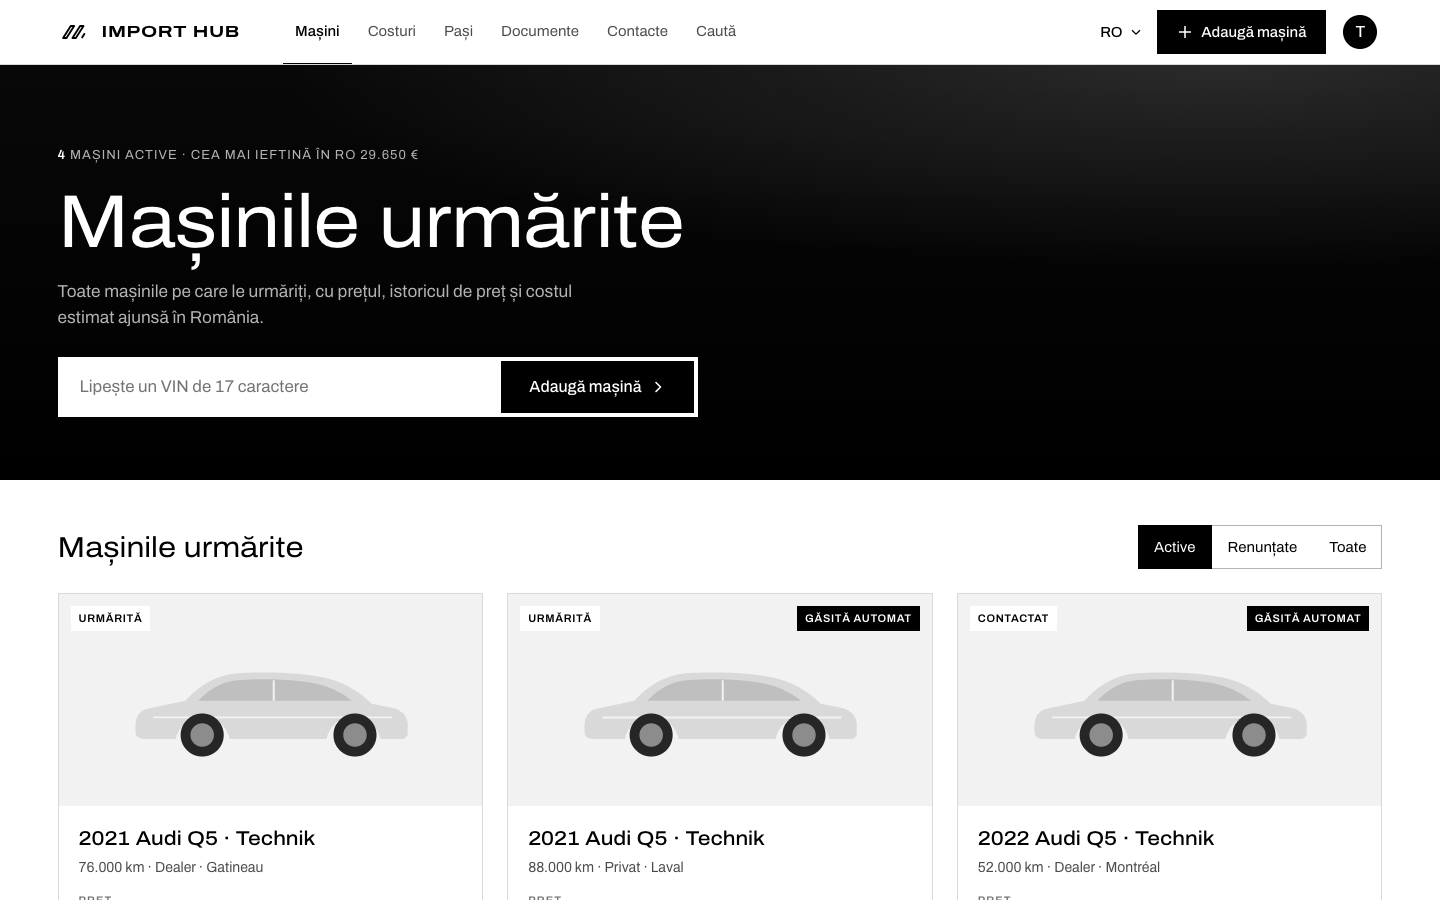
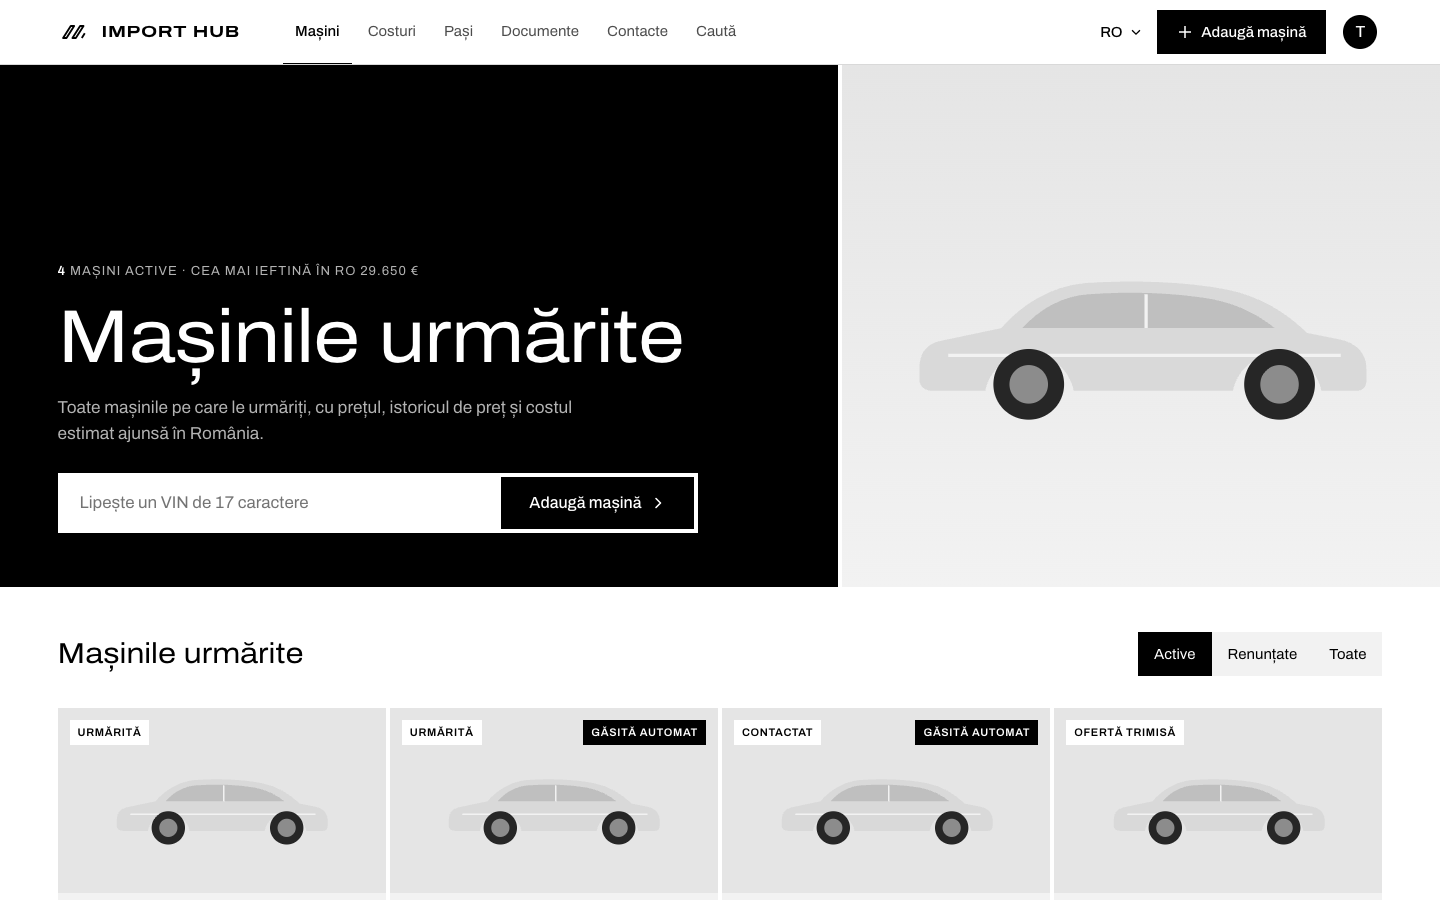
Apply Audi's published layout principles with our own components
Hero becomes an asymmetric split (black text block + full-bleed car tile);
cars, panels and side column become edge-to-edge tiles with narrow gaps;
frames, shadows and transparency removed. No Audi logo, font, icons, code or photos.

diff --git a/src/styles/main.css b/src/styles/main.css
@@ -1,6 +1,7 @@
-/* Import Hub: automotive design language after audi.ca (no Audi logo, wordmark or font).
-   Layout: white header bar with underlined active link · full-width black hero band per section · content on white / light grey
-   with square, flat cards · black footer. Type: Archivo, extended width for headings. Dark mode = black pages, grey surfaces. */
+/* Import Hub: automotive design language after audi.ca, following the layout principles Audi publishes openly
+   (straight right-angled blocks bled to the edge, asymmetric splits, full-tone colour blocks for emphasis, rectangular tiles
+   separated by narrow gaps, no frames, overlaps or transparency). No Audi logo, wordmark, font, icons, code or photos.
+   Layout: white header bar · hero split into a black text block and a car tile · content as tiles · black footer. */
 :root {
   --bg: #ffffff; --surface: #f2f2f2; --surface-2: #e5e5e5; --card: #ffffff;
   --ink: #000000; --ink-2: #4c4c4c; --ink-3: #737373; --line: #d9d9d9; --line-2: #b3b3b3;
@@ -430,3 +431,40 @@ dialog::backdrop { background: var(--scrim) }
   .stackbar i { transition: flex-grow .25s var(--ease) }
   .ring .val { transition: stroke-dashoffset .3s var(--ease) }
 }
+
+/* ===== Tile layer (layout principles) ===== */
+:root { --tile: 4px }
+/* Hero: asymmetric split, bled to the edges */
+.hero { display: grid; grid-template-columns: minmax(0, 1fr); background-image: none; gap: var(--tile); background: var(--bg) }
+.hero-in { background: var(--hero); padding-block: clamp(40px, 8vh, 96px) clamp(36px, 6vh, 72px);
+  padding-left: max(var(--gutter), env(safe-area-inset-left, 0px)); padding-right: max(var(--gutter), env(safe-area-inset-right, 0px)); align-content: end }
+.hero-art { display: grid; place-items: center; background: linear-gradient(180deg, var(--surface-2), var(--surface)); min-height: 220px }
+.hero-art .carart { width: min(86%, 760px) }
+@media (min-width: 62rem) {
+  .hero { grid-template-columns: minmax(0, 7fr) minmax(0, 5fr); min-height: clamp(420px, 58vh, 620px) }
+  .hero-in { padding-left: max(var(--gutter), env(safe-area-inset-left, 0px), calc((100vw - 92rem) / 2 + var(--gutter))) }
+  .hero-art { min-height: 100% }
+}
+/* Tiles: narrow gaps, no frames or shadows */
+.glass, .car, .empty, .banner, dialog, .upop, .cmp, .costhero, .break { border: 0; box-shadow: none }
+.glass { background: var(--surface) }
+.glass.tint { background: var(--panel) }
+.glass.deep { background: var(--surface-2) }
+.car { background: var(--surface) }
+.car:hover { background: var(--surface-2) }
+.car.sel { box-shadow: inset 0 -4px 0 var(--ink) }
+.cimg { aspect-ratio: 16 / 9; background: var(--surface-2) }
+.cars, .cols { gap: var(--tile) }
+.side { gap: var(--tile) }
+.content { gap: var(--tile) clamp(16px, 2vw, 24px) }
+.main { gap: clamp(20px, 3vw, 32px) }
+.inp { background: var(--card) }
+.empty, .banner { background: var(--surface) }
+.banner { box-shadow: inset 4px 0 0 var(--ink) }
+.banner.warn { box-shadow: inset 4px 0 0 var(--red) }
+.seg { box-shadow: none; background: var(--surface) }
+.drawer { border-left: 0 }
+.upop { box-shadow: 0 0 0 1px var(--line) }
+dialog { box-shadow: none }
+.foot { border-top: 0 }
+.chip { background: var(--surface-2) }

diff --git a/src/components/HeroSection.vue b/src/components/HeroSection.vue
@@ -1,14 +1,17 @@
 <script setup lang="ts">
+// Hero as an asymmetric split: a solid text block and a full-bleed tile with the car drawing.
+import CarArt from "./CarArt.vue";
 defineProps<{ title: string; lead: string }>();
 </script>
 
 <template>
   <section class="hero" aria-labelledby="hero-h">
-    <div class="wrap hero-in">
+    <div class="hero-in">
       <p v-if="$slots.proof" class="proof"><slot name="proof" /></p>
       <h1 id="hero-h">{{ title }}</h1>
       <p class="lead">{{ lead }}</p>
       <slot />
     </div>
+    <div class="hero-art" aria-hidden="true"><CarArt label="" /></div>
   </section>
 </template>

diff --git a/CLAUDE.md b/CLAUDE.md
@@ -26,7 +26,7 @@ Users: Catalin-Andrei (owner), his family (father-in-law may be the legal buyer)
 
 A **Vue 3 + Vite + TypeScript** single-page app in `src/`, deployed to **GitHub Pages** by `.github/workflows/deploy.yml` on every push to `main`. Hash routes (`#/cars`, `#/costs`, …) so Pages never 404s.
 
-Sections: **Cars · Costs · Steps · Documents · Contacts · Search**. Search works like a search engine: a query + filters show matching saved cars instantly and one result link per listing site (AutoTrader.ca and Kijiji take filters in the URL; CarGurus.ca, AutoHebdo and Audi certified go through a Google site: search, Facebook takes the query). Listings can't be fetched into the page from GitHub Pages; the daily task adds them to `cars`. The same filters are saved to `config/search`. Design: automotive-OEM look after audi.ca (white header bar with underlined active link, black hero bands, Archivo extended headings, square flat cards, inventory-style car cards, black footer; dark mode = black pages). Never use Audi's four-rings logo, wordmark as our brand, AudiType font or photos: the site is public and must not pass for an official Audi site. Tokens live at the top of `src/styles/main.css`.
+Sections: **Cars · Costs · Steps · Documents · Contacts · Search**. Search works like a search engine: a query + filters show matching saved cars instantly and one result link per listing site (AutoTrader.ca and Kijiji take filters in the URL; CarGurus.ca, AutoHebdo and Audi certified go through a Google site: search, Facebook takes the query). Listings can't be fetched into the page from GitHub Pages; the daily task adds them to `cars`. The same filters are saved to `config/search`. Design: automotive-OEM look after audi.ca, applying only the layout principles Audi publishes openly (straight right-angled blocks bled to the edge, asymmetric splits, full-tone colour blocks for emphasis, rectangular tiles with narrow gaps, no frames/overlaps/transparency). The hero is a split: black text block + full-bleed tile with our own car drawing. Never use Audi's rings, wordmark, Audi Type font, icon library, component code or photos: they are AUDI AG's copyright/trademarks and the site is public. Tokens live at the top of `src/styles/main.css`.
 
 Layout of the code:
 - `src/lib/costs.ts`, `src/lib/vin.ts`: the cost formula and VIN decoder from §5. Covered by `tests/unit/costs.test.ts` (25,000 CAD + GST → 27,028 €).
